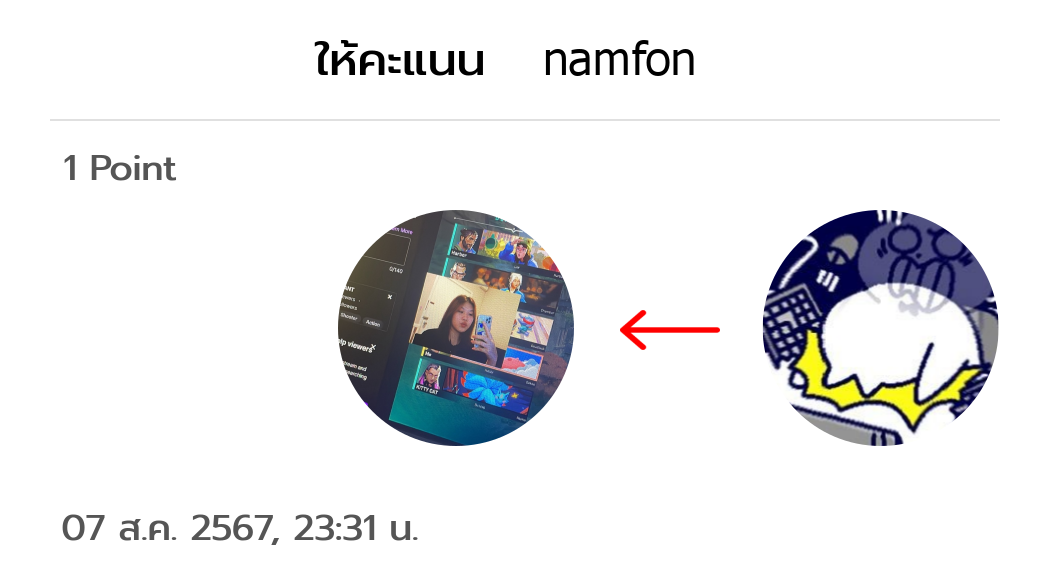
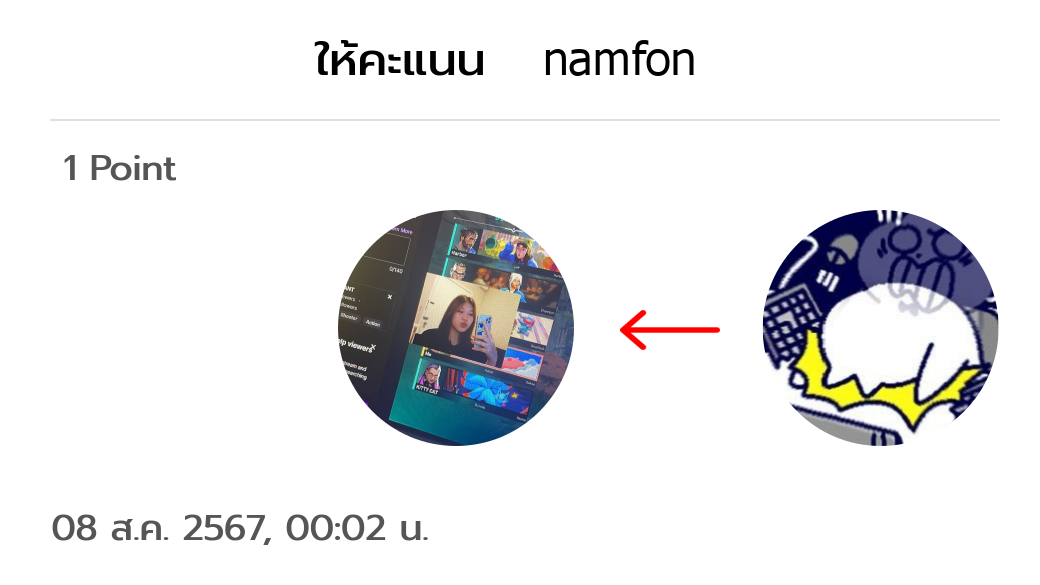
earmslip

Changed region(s): [[0.0308, 0.8615, 0.4308, 0.9231]]

diff --git a/app/model/canvas.js b/app/model/canvas.js
@@ -348,7 +348,7 @@ Canvas.pointBalance = function (event, client, result) {
                     response.data = `/images/pointCard_${userId}.png`
 
                     resolve(response)
-                    
+
                 })
                 .catch((err) => {
                     console.error('Failed to load images:', err);
@@ -360,6 +360,142 @@ Canvas.pointBalance = function (event, client, result) {
 
     })
 }
+
+Canvas.earnSlip = function (earnInput) {
+    return new Promise(async (resolve, reject) => {
+        let response = {
+            status: true,
+            errMsg: '',
+            data: [],
+            statusCode: 200
+        }
+
+        let earnData = {
+            sender_id: earnInput.transferInfo.sender_id,
+            receiver_id: earnInput.transferInfo.receiver_id,
+            point_amount: earnInput.transferInfo.point_amount,
+            receiver: earnInput.receiver
+        }
+
+        try {
+
+            if (!earnData.receiver) {
+                console.error('No profile data returned');
+                return;
+            }
+
+            const Date = timestamp()
+
+            // Register the custom font
+            const fontPrompt = path.join(__dirname, '../../assets/Prompt/Prompt-Bold.ttf');
+            registerFont(fontPrompt, { family: 'Prompt' });
+
+            const width = 1040
+            const height = 585
+            const canvas = createCanvas(width, height)
+            const ctx = canvas.getContext('2d')
+
+            ctx.fillStyle = '#fff'
+            ctx.fillRect(0, 0, width, height)
+            ctx.textAlign = 'right'
+            // ctx.textBaseline = 'top'
+
+            const receiver_name = earnData.receiver.displayName || 'Default Name';
+
+            ctx.fillStyle = '#000'
+            ctx.font = '46px Sans'
+            ctx.fillText(`${receiver_name}`, 450, 75)
+
+            ctx.fillStyle = '#D41C24'
+            ctx.font = '200px Prompt'
+            ctx.fillText(`${earnData.point_amount}`, 500, 400)
+
+            ctx.textAlign = 'center'
+
+            ctx.fillStyle = '#000'
+            ctx.font = '46px Prompt'
+            ctx.fillText(`ได้รับคะแนน`, 600, 75)
+
+
+            ctx.fillStyle = '#000'
+            ctx.font = '46px Prompt'
+            ctx.fillText(`ได้รับคะแนน`, 600, 75)
+
+            ctx.fillStyle = '#D41C24'
+            ctx.font = '100px Prompt'
+            ctx.fillText('Point', 650, 400)
+
+            ctx.fillStyle = '#555555'
+            ctx.font = '36px Prompt'
+            ctx.fillText(`${Date.timestampTH}`, 815, 540)
+
+            // const buffer = canvas.toBuffer('image/png')
+            // fs.writeFileSync('./output.png', buffer)
+
+            ctx.strokeStyle = '#C1C1C1'
+            ctx.beginPath()
+            ctx.lineTo(1000, 120)
+            ctx.lineTo(50, 120)
+            ctx.stroke()
+
+            // Function to draw a rounded image
+            function drawRoundedImage(ctx, image, x, y, width, height) {
+                const radius = Math.min(width, height) / 2;
+                ctx.save();
+                ctx.beginPath();
+                ctx.arc(x + radius, y + radius, radius, 0, Math.PI * 2, true);
+                ctx.closePath();
+                ctx.clip();
+                ctx.drawImage(image, x, y, width, height);
+                ctx.restore();
+            }
+
+            // Ensure the output directory exists
+            const outputDir = 'eSlip_images';
+            if (!fs.existsSync(outputDir)) {
+                fs.mkdirSync(outputDir);
+            }
+
+            const receiver_img = earnData.receiver.pictureUrl
+            const arrowPath = path.join(__dirname, '../../assets/receiveArrow.png');
+
+            Promise.all([loadImage(receiver_img), loadImage(arrowPath)])
+                .then(([receiver_img, arrowImg]) => {
+
+                    // Draw the image onto the canvas
+                    // drawRoundedImage(ctx, sender_img, 45, 210, 236, 236);
+
+                    // drawRoundedImage(ctx, receiver_img, 450, 210, 236, 236);
+
+                    // ctx.drawImage(arrowImg, 320, 310, 100, 40);
+
+                    // Save the canvas to a file
+                    const receiveOut = fs.createWriteStream('EarnSlip.png');
+                    const stream = canvas.createPNGStream();
+                    stream.pipe(receiveOut);
+                    receiveOut.on('finish', () => console.log('The EarnSlip file was created.'));
+
+                    // Save the canvas to a file with the current date as the name
+                    const outPath = path.join(outputDir, `earn_${earnData.receiver_id}.png`);
+                    const outFile = fs.createWriteStream(outPath);
+                    const streamFile = canvas.createPNGStream();
+                    streamFile.pipe(outFile);
+                    outFile.on('finish', () => console.log(`The PNG file was created at ${outPath}`));
+
+                    response.data = `/images/earn_${earnData.receiver_id}.png`
+
+                    resolve(response)
+                })
+                .catch((err) => {
+                    console.error('Failed to load images:', err);
+                    reject(err)
+                });
+        } catch (err) {
+            reject(err)
+        }
+    })
+}
+
 
 function timestamp() {
     // Array of month names

diff --git a/app/model/transfer.js b/app/model/transfer.js
@@ -234,7 +234,22 @@ Transfer.earnPoint = function (earnInput) {
             receiver_slip_url: ''
         }
 
+        const sender = await getProfile(earnDb.sender_id)
+        const receiver = await getProfile(earnDb.receiver_id)
+
+        let drawPayLoad = {
+            sender,
+            receiver,
+            transferInfo: earnInput
+        }
+
         if (earnDb.point_amount > 0) {
+
+            // Get slip URL from Canvas.transferSlip
+            const receiveSlipUrl = await Canvas.earnSlip(drawPayLoad)
+            console.log(receiveSlipUrl)
+            earnDb.receiver_slip_url = receiveSlipUrl.data;
+
             const earn =
                 `INSERT INTO point_transfer SET ?`
 

diff --git a/app/model/lineWebhook.js b/app/model/lineWebhook.js
@@ -64,8 +64,8 @@ const message_trigger = async function (event, userId) {
               const pointCard = [
                 {
                   "type": "image",
-                  "originalContentUrl": "https://ba9b-1-20-91-118.ngrok-free.app/images/pointCard_U4ed202ba32ea29aa7a38b04ae2efabae.png",
-                  "previewImageUrl": "https://ba9b-1-20-91-118.ngrok-free.app/images/pointCard_U4ed202ba32ea29aa7a38b04ae2efabae.png"
+                  "originalContentUrl": "https://ba9b-1-20-91-118.ngrok-free.app/images/pointCard_${userId}.png",
+                  "previewImageUrl": "https://ba9b-1-20-91-118.ngrok-free.app/images/pointCard_${userId}.png"
                 }
               ];
 
